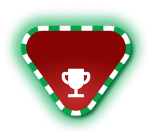
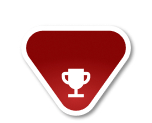
ui navbar almost

diff --git a/src/components/Navbar.jsx b/src/components/Navbar.jsx
@@ -1,8 +1,10 @@
 import { useState } from "react";
 import HighScoreData from "./HighScoreData";
-import logoImg from "../assets/SANTA_SMACK.png";
+import logoImg from "../assets/santa_smack_logo.png";
 import highscorenappi from "../assets/highscore_nappi.png";
-import targetImg from "../assets/target.png";
+import measureImg from "../assets/measure.png";
+import MusicPlayer from "./MusicPlayer";
+import Settings from "./Settings";
 
 const Navbar = ({ highScoreData }) => {
   const [highScoreOpen, setHighScoreOpen] = useState(false);
@@ -11,39 +13,56 @@ const Navbar = ({ highScoreData }) => {
   };
   return (
     <>
-      <div className="navbarOuter">
-        <div className="navbar valotausta">
-          <div className="navbarContent">
-            <div className="navbarTop">
-              <div className="navbarLeft">
-                {" "}
-                <img src={targetImg}></img>
-              </div>
-              <div className="navbarCenter">
-                <div className="highScoreButtonContainer">
-                  <button
-                    className="highScoreButton"
-                    onClick={() => handleButtonClick()}
-                  >
-                    <img src={logoImg}></img>
-                  </button>
-                </div>
-              </div>
-              <div className="navbarRight">RIGHT</div>
-            </div>
-            {highScoreOpen && (
-              <>
-                <div className="highScoreBox">
-                  <div className="dailyChallenge">DAILY CHALLENGE</div>
-
-                  <div className="highScoreData">
-                    <HighScoreData highScoreData={highScoreData} />
+      <div className="highScoreButtonContainer">
+        <button
+          className="highScoreButton"
+          style={{
+            transform: highScoreOpen
+              ? "translate(-50%, 405%)"
+              : "translate(-50%, 85%)",
+          }}
+          onClick={handleButtonClick}
+        >
+          <img src={highscorenappi} alt="High Score Button" />
+        </button>{" "}
+        <div className="navbarOuter">
+          <div className="navbar valotausta">
+            <div className="navbarContent">
+              <div className="navbarTop">
+                <div className="navbarLeft">
+                  {" "}
+                  <img src={measureImg}></img>
+                  <div className="sessionLongest">
+                    <p>
+                      SESSION
+                      <br />
+                      LONGEST
+                    </p>
+                    <p className="sesDist">1999.99 M</p>
                   </div>
-
-                  <div className="dailyChallengeTop5">DAILY CHALLENGE TOP5</div>
                 </div>
-              </>
-            )}
+                <div className="navbarCenter">
+                  <img src={logoImg}></img>
+                </div>
+                <div className="navbarRight">
+                  <Settings />
+                  <MusicPlayer />
+                </div>
+              </div>
+              {highScoreOpen && (
+                <>
+                  <div className="highScoreBox">
+                    <div className="dailyChallenge">DAILY CHALLENGE</div>
+                    <div className="highScoreData">
+                      <HighScoreData highScoreData={highScoreData} />
+                    </div>
+                    <div className="dailyChallengeTop5">
+                      DAILY CHALLENGE TOP5
+                    </div>
+                  </div>
+                </>
+              )}
+            </div>
           </div>
         </div>
       </div>

diff --git a/src/App.css b/src/App.css
@@ -33,7 +33,6 @@ body {
   height: 30px;
 }
 .inputButton {
-  
 }
 .santa {
   width: fit-content;
@@ -265,35 +264,35 @@ body {
   left: 50%;
   transform: translate(-50%, 0%);
   z-index: 1;
-  }
+}
 .navbar {
   padding: 0.3rem;
   text-align: center;
   min-width: 600px;
 }
 .valotausta {
-  background-color: red;
-  background-image: url("./assets/green_stripes.png");
-  background-repeat: repeat;
   background-size: cover;
-  border-radius: 20px;
-  animation: moveDown2 10s linear infinite;
-}
-@keyframes moveDown2 {
-  0% {
-    background-position: 0 0;
-  }
-  100% {
-    background-position: 0% 600%;
-  }
+  background-color: #ffe4af;
+  border-radius: 25px;
+  border: #ffe4af solid 4px;
+  box-shadow: 2px 2px 4px 0px #000;
 }
 .navbarContent {
   display: flex;
   flex-direction: column;
   justify-content: space-between;
-  background-color: rgb(255, 0, 0);
   border-radius: 20px;
-  padding: 0.5rem;
+  padding: 0.2rem 1.5rem;
+  border-radius: 20px;
+  z-index: 200;
+  outline: gray dotted 9px;
+  animation: blink 1s infinite;
+  outline-offset: 0px;
+  background: var(
+    --navbar-radial,
+    radial-gradient(50% 33.33% at 50% 20%, #bd2828 3.84%, #870404 100%)
+  );
+  box-shadow: 4px 4px 30px 0px #ffffffc9 inset;
 }
 .navbarTop {
   display: flex;
@@ -305,7 +304,6 @@ body {
   text-align: center;
 }
 .highScoreButton {
-  transform: translate(0%, 0%);
   border: none;
   background: none;
   padding: 0;
@@ -313,34 +311,113 @@ body {
   font: inherit;
   color: inherit;
   cursor: pointer;
+  position: absolute;
+  z-index: 1;
 }
 .navbarLeft {
-  flex-basis: 40%;
+  flex-basis: 35%;
   text-align: left;
+  display: flex;
+  flex-direction: row;
+  align-items: center;
+}
+.navbarLeft img {
+  width: 42px;
+  height: 40px;
+  flex-shrink: 0;
+}
+.sesDist {
+  color: #fff;
+  font-family: Luckiest Guy;
+  font-size: 24px;
+  line-height: normal;
+  letter-spacing: 1.44px;
+}
+.sessionLongest {
+  display: flex;
+  flex-direction: column;
+  font-family: "Luckiest Guy", cursive;
+  color: #ffe4af;
+  padding-left: 1rem;
+  letter-spacing: 0.96px;
 }
 .navbarCenter {
-  flex-basis: 20%;
+  flex-basis: 30%;
+  display: flex;
+  justify-content: center;
 }
+.navbarCenter img {
+  width: 100%;
+}
+
 .navbarRight {
   text-align: right;
-  flex-basis: 40%;
+  flex-basis: 35%;
+  display: flex;
+  flex-direction: row;
+  justify-content: flex-end;
 }
+.navbarRight button {
+  border: none;
+  background: none;
+  padding: 0 0 0 0.5rem;
+}
+
+.navbarRight img {
+  height: 55px;
+}
+
 .highScoreBox {
   justify-content: space-around;
   display: flex;
   width: 100%;
-  background-color: red;
   border-radius: 20px;
+  min-height: 400px;
 }
 .dailyChallenge {
   flex-basis: 20%;
 }
 .highScoreData {
-  
   width: 100%;
 }
 .dailyChallengeTop5 {
   flex-basis: 20%;
 }
 
+.navbar:before,
+.navbar:after {
+  content: "";
+  position: absolute;
+  left: 0px;
+  top: 0px;
+  border-radius: 25px;
 
+  background-color: #bd2828;
+  background-size: 400%;
+  width: calc(100%);
+  height: calc(100%);
+  z-index: -1;
+  animation: blink-blur 1s infinite;
+}
+
+@keyframes blink-blur {
+  50% {
+    background-color: #0cd366;
+  }
+}
+
+.navbar:after {
+  filter: blur(50px);
+}
+
+@keyframes blink {
+  0% {
+    outline-color: #bd2828;
+  }
+  50% {
+    outline-color: #0cd366;
+  }
+  100% {
+    outline-color: #bd2828;
+  }
+}

diff --git a/src/components/MusicPlayer.jsx b/src/components/MusicPlayer.jsx
@@ -1,8 +1,9 @@
 import React, { useState, useEffect, useRef } from "react";
-import MusicOn from "../assets/music_on.svg";
-import MusicOff from "../assets/music_off.svg";
-import MusicNext from "../assets/music_next.svg";
 import { distanceMusicPlay } from "../SoundUtils";
+import musicOn from "../assets/music-on.png";
+import soundOn from "../assets/sound-on.png";
+import musicOff from "../assets/music-off.png";
+import soundOff from "../assets/sound-off.png";
 
 const MusicPlayer = ({ mute, setMute }) => {
   const [currentTrackIndex, setCurrentTrackIndex] = useState(0);
@@ -48,7 +49,6 @@ const MusicPlayer = ({ mute, setMute }) => {
 
   const toggleMusic = () => {
     setIsPlaying(!isPlaying);
-    
   };
   const handleVolumeChange = (event) => {
     const volume = event.target.value;
@@ -67,23 +67,19 @@ const MusicPlayer = ({ mute, setMute }) => {
 
   return (
     <>
-      <div className="button-container">
-        <button onClick={toggleMusic}>Toggle Music
-          {isPlaying ? (
-            <img src={MusicOff} className="music-svg" />
-          ) : (
-            <img src={MusicOn} className="music-svg" />
-          )}
+      <div className="audioControl">
+        <button onClick={toggleMusic}>
+          {isPlaying ? <img src={musicOff} /> : <img src={musicOn} />}
         </button>
-        {isPlaying && (
-          <button onClick={playNextTrack}>Play Next
-            <img src={MusicNext} className="music-svg" />
-          </button>
-        )}
+
         {!mute ? (
-          <button onClick={() => handleMuteClick()}>mute</button>
+          <button onClick={() => handleMuteClick()}>
+            <img src={soundOff} />
+          </button>
         ) : (
-          <button onClick={() => handleMuteClick()}>unmute</button>
+          <button onClick={() => handleMuteClick()}>
+            <img src={soundOn} />
+          </button>
         )}
       </div>
     </>

diff --git a/src/components/Settings.jsx b/src/components/Settings.jsx
@@ -1,6 +1,6 @@
 import React, { useState } from "react";
 import GameSpeed from "./GameSpeed";
-import settingsImg from "../assets/Juha.png";
+import settingsIcon from "../assets/settings.png";
 
 const Settings = ({ gameSpeed, setGameSpeed }) => {
   const [showSettings, setShowSettings] = useState(false);
@@ -12,7 +12,7 @@ const Settings = ({ gameSpeed, setGameSpeed }) => {
           className="settings-button"
           onClick={() => setShowSettings((prev) => !prev)}
         >
-          <img src={settingsImg}></img>
+          <img src={settingsIcon}></img>
         </button>
         {showSettings && (
           <GameSpeed gameSpeed={gameSpeed} setGameSpeed={setGameSpeed} />
